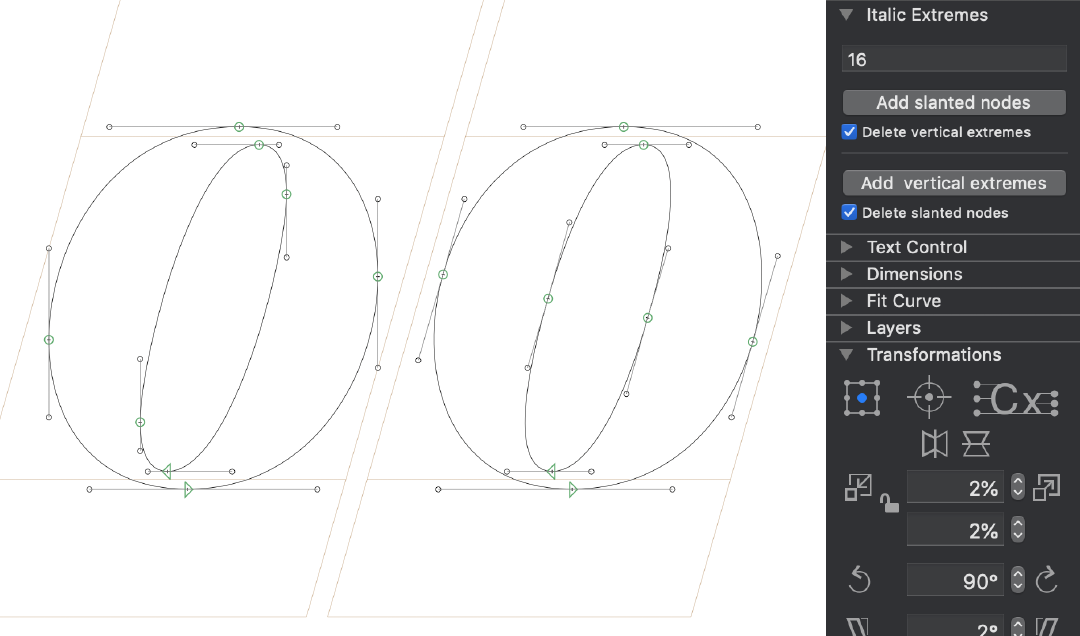
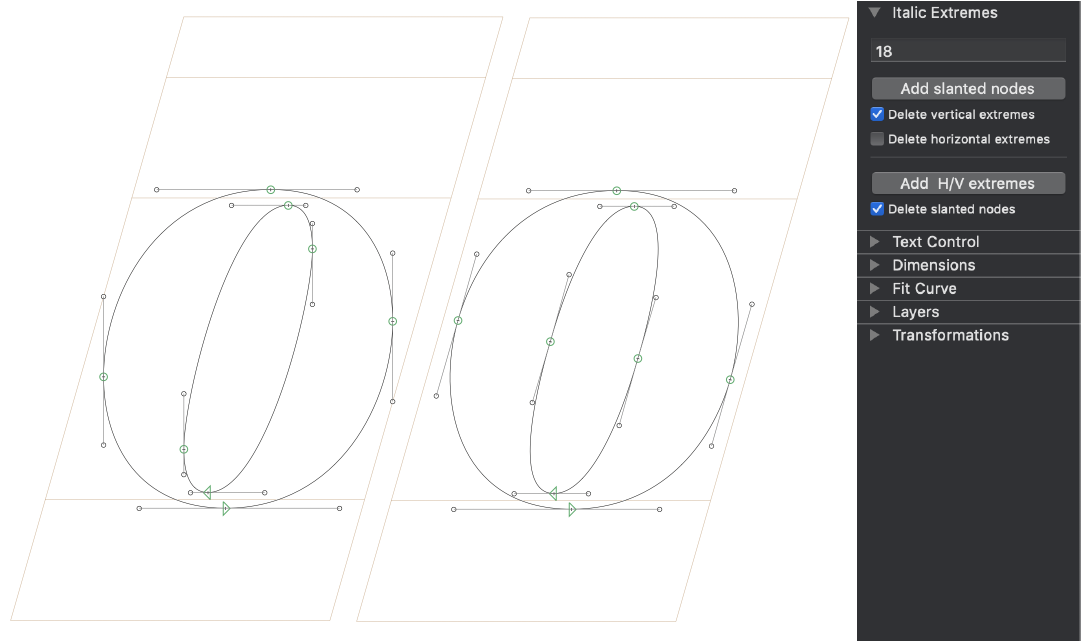
update README and screenshot

diff --git a/README.md b/README.md
@@ -8,7 +8,12 @@ Glyphs app plugin to add points on a specified angle.
 
 The plugin can be used on all selected glyphs of an Edit tab, the entire active glyph in Edit mode, or only on a selection of segments if such a selection has been made.
 
-The default angle is the italic angle from the glyphs file.
+The default angle is the italic angle from the selected master when opening the document.
+Multiple angles can be entered separated by commas, and will be processed successively.
+
+The checkboxes allow to optionally delete V/H extremes or slanted curve nodes that match the specified angles, effectively switching an outline between V/H and Italic extremes.
+
+If you want to transform an outline with angled nodes on two different angles **and** remove both H/V extremes, its better to procede in two steps, ex: add nodes at 12deg + remove V extremes, then add nodes at -78deg + remove H extremes. Trying to do both at the same time will mess up the outlines as both H/V extremes will be removed while the first angle is processed.
 
 It is recommended that you keep a copy of the original outline somewhere before using the plugin, either in background or a backup layer.
 
